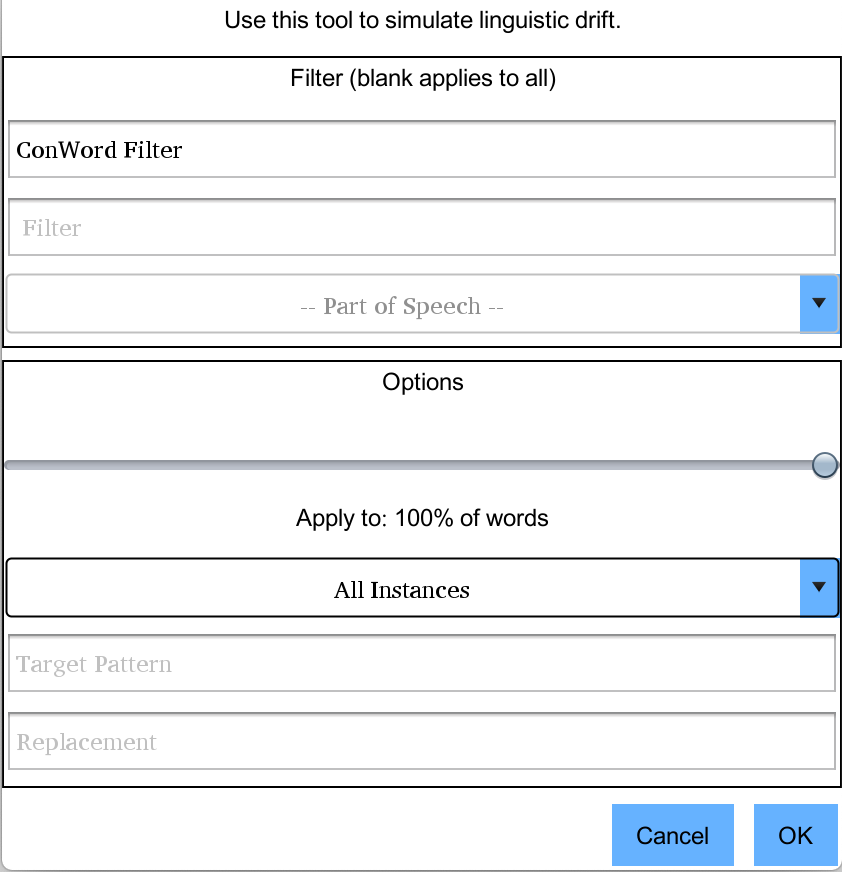
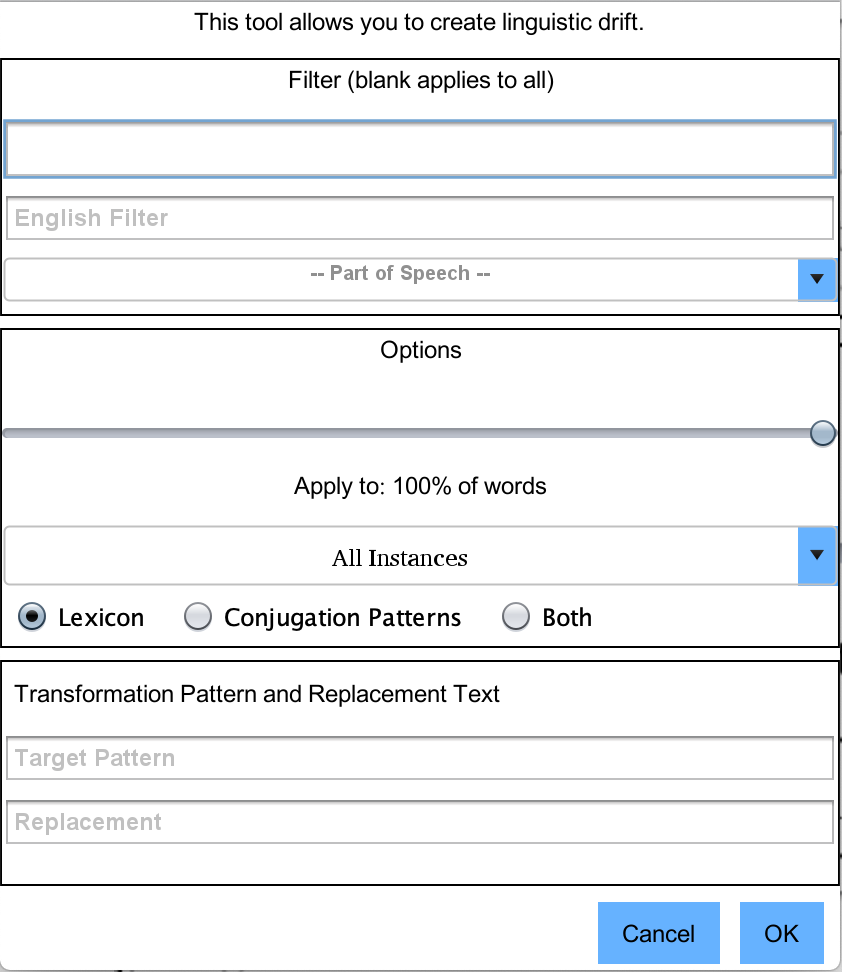
Completes and closes #937

Changed region(s): [[0.0, 0.0, 1.0, 1.0]]

diff --git a/docs/readme.html b/docs/readme.html
@@ -22,10 +22,7 @@
         <!-- Custom styles for this template -->
         <link href="assets/css/main.css" rel="stylesheet" type="text/css">
 
-        <script src="https://code.jquery.com/jquery-1.10.2.min.js"></script><!-- HTML5 shim and Respond.js IE8 support of HTML5 elements and media queries --><!--[if lt IE 9]>
-      <script src="https://oss.maxcdn.com/libs/html5shiv/3.7.0/html5shiv.js"></script>
-      <script src="https://oss.maxcdn.com/libs/respond.js/1.3.0/respond.min.js"></script>
-      <![endif]-->
+        <script src="https://code.jquery.com/jquery-1.10.2.min.js"></script>
     </head><body>
         <!-- Static navbar -->
         <div class="navbar navbar-inverse navbar-static-top">
@@ -79,10 +76,10 @@
                                     &nbsp;&nbsp;&nbsp; <a href="#-_IPA_Conversion">- IPA Conversion Tool</a><br>
                                     &nbsp;&nbsp;&nbsp; <a href="#-_Images">- Images in Text</a><br>
                                     &nbsp;&nbsp;&nbsp; <a href="#-_Family_Window">- Family Window</a><br>
-                                    &nbsp;&nbsp;&nbsp; <a href="#-_Check_Lexicon">- Using the Check Lexicon Tool</a><br>
+                                    &nbsp;&nbsp;&nbsp; <a href="#-_Check_Lexicon">- Using the Check Language Tool</a><br>
                                     &nbsp;&nbsp;&nbsp; <a href="#-_Swadesh_Lists">- Importing Swadesh Lists</a><br>
+                                    &nbsp;&nbsp;&nbsp; <a href="#EXPORT_SPELLCHECK_DIC">- Exporting Spellcheck Dictionary</a><br>
                                     &nbsp;&nbsp;&nbsp; <a href="#OPTIONS_MENU">- Options Menu</a><br>
-                                    &nbsp;&nbsp;&nbsp; <a href="#CHECK_LANGUAGE">- Check Language Tool</a><br>
                                     <a href="#IMPORTING_FROM_EXCEL">3---- Importing and Exporting to/from
                                         Excel or CSV</a><br>
                                     <a href="#ETYMOLOGY">4---- Etymology Engine</a><br>
@@ -842,7 +839,7 @@
                             will be auto-selected in the dictionary lexicon. This can be useful for
                             vocabularies that have not been wholly committed to memory.<br></div>
 
-                        <a name="-_Check_Lexicon"></a><h1>Using the Check Lexicon Tool</h1>
+                        <a name="-_Check_Lexicon"></a><h1>Using the Check Language Tool</h1>
                         <br>
                         <div align="left">The Check Lexicon tool allows you to easily check over your lexicon
                             to see if you have mistakenly left entries which break patterns you have established 
@@ -857,9 +854,10 @@
                                 <li>Completion of definition (if required by part of speech)</li>
                                 <li>Completion of pronunciation (if required by part of speech)</li>
                                 <li>Word matches pattern associated with given part of speech</li>
+                                <li>Regex patterns used within your language file will be checked for validity</li>
                             </ul>
 
-                            Check your lexicon by clicking Tools->Check Lexicon. Each word will be checked, and 
+                            Check your lexicon by clicking Tools->Check Language. Each word will be checked, and 
                             a window will appear with a list of all words containing problems. Selecting a word 
                             will display the problems associated with the word and select it on the main Lexicon 
                             screen to allow you to correct the problems or to select the override option if the 
@@ -875,8 +873,18 @@
                             and selecting either Original or Modern will automatically copy a series of words to your lexicon which are empty, save
                             for their local language fields being filled in with the English values.<br><br>
                             Additionally, you may choose to load a custom Swadesh list. If this option is selected, an open file dialog will appear. 
-                            Simply select any line delimited plaintext or unicode text file to import. (Note: Comma delimited will not work correctly, 
+                            Simply select any line delimited plain-text or Unicode text file to import. (Note: Comma delimited will not work correctly, 
                             these files must be delimited by a new line or carriage return between each word to be imported).
+                        </div>
+                        
+                        <a name="EXPORT_SPELLCHECK_DIC"></a><h1>Export Spellcheck Dictionary</h1>
+                        <div align="left">
+                            This tool within PolyGlot can generate a .dic file which is consumable as a spellcheck dictionary. This file can be used 
+                            in many popular applications such as MS Word, Open Office applications, etc. The file will contain all vocabulary defined 
+                            in your lexicon and all possible conjugated/declined forms of each word.<br><br>
+                            
+                            To access this tool, click Tools->Export Tools->Export Dic File in the menu bar. The menu will allow you to save the file 
+                            wherever you like.
                         </div>
 
                         <a name="OPTIONS_MENU"></a><h1>Options Menu</h1>
@@ -1159,6 +1167,13 @@
                                 <li>Middle and Last Instances: Only middle and last instances of matched patterns in words are transformed.</li>
                                 <li>Last Instance Only: Only the last instance of of matched patterns in words are transformed.</li>
                             </ul><br>
+                            
+                            Below this is a radio button controlling what within your language file will be targeted.<br>
+                            <ul>
+                                <li>Lexicon: Apply transformations exclusively to lexicon entries</li>
+                                <li>Conjugation Patterns: Apply transformation exclusively to generation patterns (warning: applies regex transformation to regex patterns here, be aware)</li>
+                                <li>Both: Apply transformation to both</li>
+                            </ul>
                             
                             The target pattern is the pattern which is to be replaced in words. This field is regex compatible. The replacement 
                             field is the value which is to replace the target pattern in words. This field is also regex compatible.<br><br>
